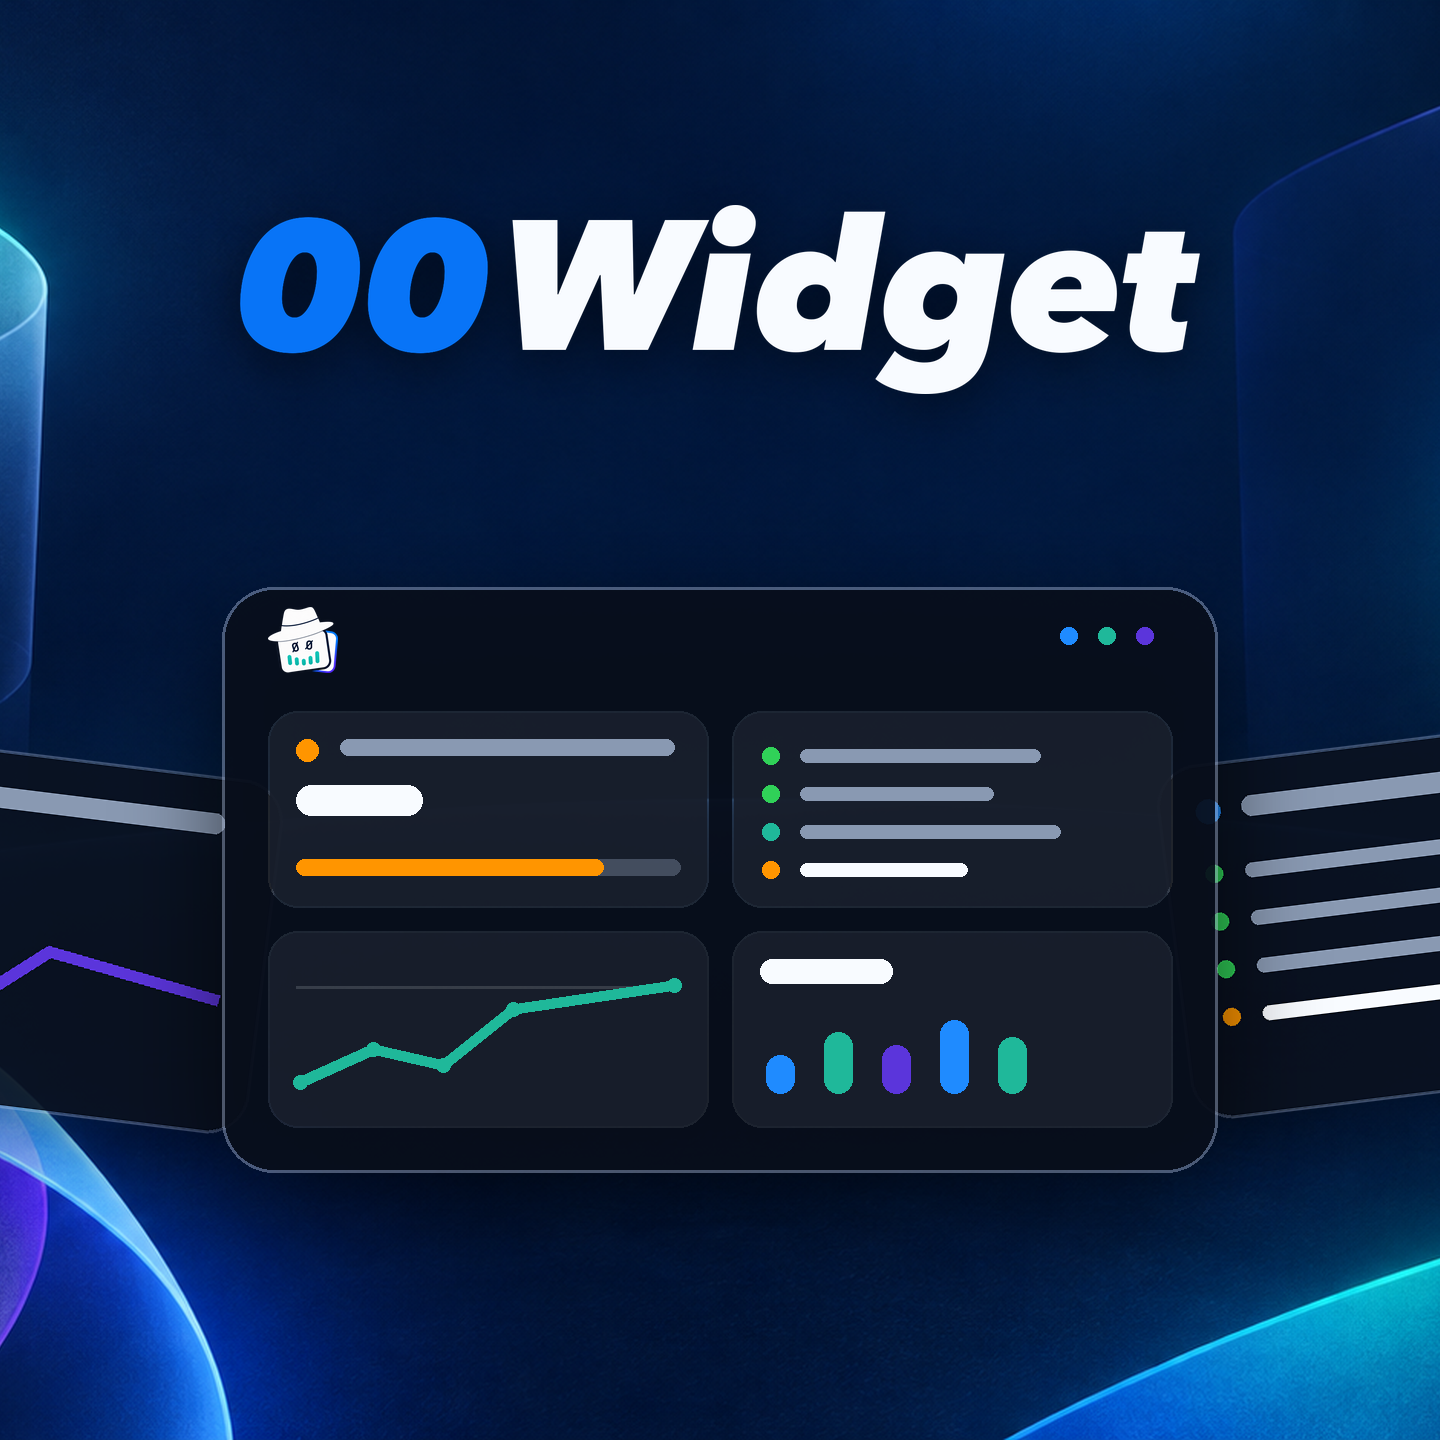
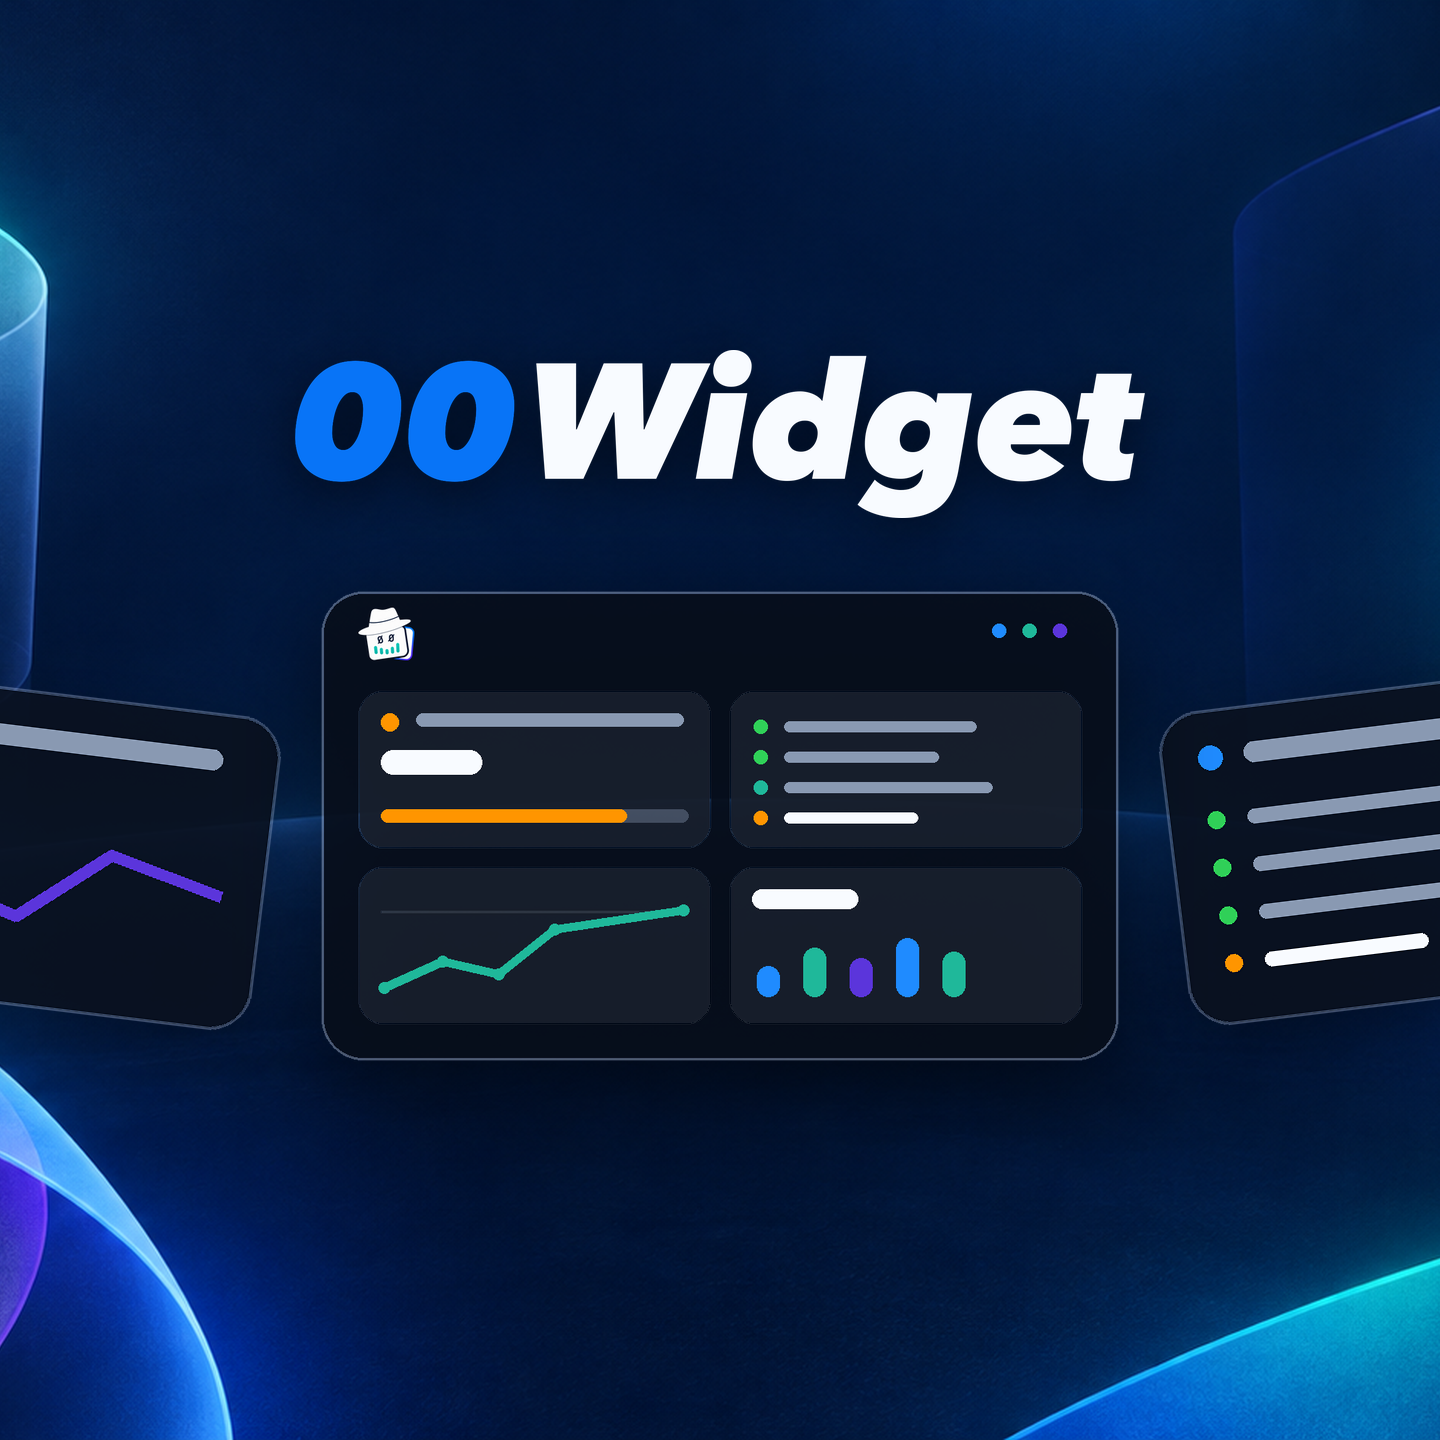
Add safe Horizon Store cover variants

Changed region(s): [[0.0, 0.4062, 1.0, 0.8438], [0.1562, 0.125, 0.8438, 0.375], [0.2188, 0.7188, 0.3438, 0.75]]

diff --git a/marketing/horizon-store/build.py b/marketing/horizon-store/build.py
@@ -27,6 +27,10 @@ MARK = REPO_ROOT / "docs" / "brand" / "mark-transparent-master.png"
 WORDMARK = REPO_ROOT / "docs" / "brand" / "wordmark-horizontal-transparent.png"
 
 UNIVERSAL_NAME = "00widget-universal-basic-2560x1440.png"
+COVER_LANDSCAPE_NAME = "00widget-cover-landscape-2560x1440.png"
+COVER_SQUARE_NAME = "00widget-cover-square-1440x1440.png"
+COVER_PORTRAIT_NAME = "00widget-cover-portrait-1008x1440.png"
+MINI_LANDSCAPE_NAME = "00widget-mini-landscape-1080x360.png"
 HERO_NAME = "00widget-hero-cover-3000x900.png"
 ICON_NAME = "00widget-icon-512x512.png"
 LOGO_NAME = "00widget-logo-transparent-1254x1254.png"
@@ -37,6 +41,10 @@ SPATIAL_FOREGROUND_NAME = "00widget-spatialized-foreground-180x180.png"
 # Dashboard for the 3000x900 Hero Cover. The title is the essential element
 # this build pins to it; decorative panels may continue into the bleed.
 HERO_SAFE_AREA = (560, 120, 2440, 720)
+COVER_LANDSCAPE_SAFE_AREA = (300, 330, 2260, 1110)
+COVER_SQUARE_SAFE_AREA = (190, 190, 1250, 1150)
+COVER_PORTRAIT_SAFE_AREA = (170, 160, 838, 1090)
+MINI_LANDSCAPE_SAFE_AREA = (100, 50, 980, 310)
 SPATIAL_FOREGROUND_SAFE_AREA = (21, 21, 159, 159)
 
 DEEP_NAVY = (6, 21, 42, 255)
@@ -253,20 +261,128 @@ def place_rotated(
     composite_with_shadow(canvas, rotated, xy, blur=34, opacity=opacity)
 
 
-def build_universal() -> Image.Image:
+def scaled_dashboard(size: tuple[int, int]) -> Image.Image:
+    return glass_panel((1000, 590)).resize(size, Image.Resampling.LANCZOS)
+
+
+def build_cover_landscape() -> Image.Image:
     canvas = cover_background((2560, 1440))
 
-    left = mini_panel((520, 360), PURPLE, chart=True)
-    right = mini_panel((520, 360), BLUE, chart=False)
-    place_rotated(canvas, left, (570, 930), -7.0, opacity=110)
-    place_rotated(canvas, right, (1990, 915), 7.0, opacity=110)
+    left = mini_panel((460, 320), PURPLE, chart=True)
+    right = mini_panel((460, 320), BLUE, chart=False)
+    place_rotated(canvas, left, (600, 850), -7.0, opacity=105)
+    place_rotated(canvas, right, (1960, 845), 7.0, opacity=105)
 
-    dashboard = glass_panel((1000, 590))
-    composite_with_shadow(canvas, dashboard, (780, 585), blur=48, opacity=175, offset=(0, 30))
+    dashboard = scaled_dashboard((800, 472))
+    dashboard_xy = (880, 590)
+    inside(
+        (
+            dashboard_xy[0],
+            dashboard_xy[1],
+            dashboard_xy[0] + dashboard.width,
+            dashboard_xy[1] + dashboard.height,
+        ),
+        COVER_LANDSCAPE_SAFE_AREA,
+    )
+    composite_with_shadow(canvas, dashboard, dashboard_xy, blur=46, opacity=175, offset=(0, 28))
 
-    title = title_art((960, 220))
-    title_xy = ((2560 - title.width) // 2, 205)
+    title = title_art((850, 195))
+    title_xy = ((2560 - title.width) // 2, 350)
+    inside(
+        (title_xy[0], title_xy[1], title_xy[0] + title.width, title_xy[1] + title.height),
+        COVER_LANDSCAPE_SAFE_AREA,
+    )
     composite_with_shadow(canvas, title, title_xy, blur=24, opacity=125, offset=(0, 12))
+    return canvas.convert("RGB")
+
+
+def build_cover_square() -> Image.Image:
+    canvas = cover_background((1440, 1440))
+
+    left = mini_panel((370, 255), PURPLE, chart=True)
+    right = mini_panel((370, 255), BLUE, chart=False)
+    place_rotated(canvas, left, (245, 795), -7.0, opacity=95)
+    place_rotated(canvas, right, (1195, 785), 7.0, opacity=95)
+
+    dashboard = scaled_dashboard((760, 448))
+    dashboard_xy = (340, 520)
+    inside(
+        (
+            dashboard_xy[0],
+            dashboard_xy[1],
+            dashboard_xy[0] + dashboard.width,
+            dashboard_xy[1] + dashboard.height,
+        ),
+        COVER_SQUARE_SAFE_AREA,
+    )
+    composite_with_shadow(canvas, dashboard, dashboard_xy, blur=42, opacity=175, offset=(0, 26))
+
+    title = title_art((760, 175))
+    title_xy = ((1440 - title.width) // 2, 245)
+    inside(
+        (title_xy[0], title_xy[1], title_xy[0] + title.width, title_xy[1] + title.height),
+        COVER_SQUARE_SAFE_AREA,
+    )
+    composite_with_shadow(canvas, title, title_xy, blur=22, opacity=125, offset=(0, 11))
+    return canvas.convert("RGB")
+
+
+def build_cover_portrait() -> Image.Image:
+    canvas = cover_background((1008, 1440))
+
+    # Bleed-only side panels preserve the multi-panel idea without competing
+    # with the title and central dashboard inside Meta's narrow safe area.
+    left = mini_panel((300, 210), PURPLE, chart=True)
+    right = mini_panel((300, 210), BLUE, chart=False)
+    place_rotated(canvas, left, (75, 750), -7.0, opacity=80)
+    place_rotated(canvas, right, (933, 745), 7.0, opacity=80)
+
+    dashboard = scaled_dashboard((620, 366))
+    dashboard_xy = (194, 520)
+    inside(
+        (
+            dashboard_xy[0],
+            dashboard_xy[1],
+            dashboard_xy[0] + dashboard.width,
+            dashboard_xy[1] + dashboard.height,
+        ),
+        COVER_PORTRAIT_SAFE_AREA,
+    )
+    composite_with_shadow(canvas, dashboard, dashboard_xy, blur=38, opacity=175, offset=(0, 24))
+
+    title = title_art((620, 145))
+    title_xy = ((1008 - title.width) // 2, 225)
+    inside(
+        (title_xy[0], title_xy[1], title_xy[0] + title.width, title_xy[1] + title.height),
+        COVER_PORTRAIT_SAFE_AREA,
+    )
+    composite_with_shadow(canvas, title, title_xy, blur=20, opacity=125, offset=(0, 10))
+    return canvas.convert("RGB")
+
+
+def build_mini_landscape() -> Image.Image:
+    canvas = cover_background((1080, 360))
+
+    dashboard = scaled_dashboard((420, 248))
+    dashboard_xy = (550, 56)
+    inside(
+        (
+            dashboard_xy[0],
+            dashboard_xy[1],
+            dashboard_xy[0] + dashboard.width,
+            dashboard_xy[1] + dashboard.height,
+        ),
+        MINI_LANDSCAPE_SAFE_AREA,
+    )
+    composite_with_shadow(canvas, dashboard, dashboard_xy, blur=24, opacity=160, offset=(0, 15))
+
+    title = title_art((350, 82))
+    title_xy = (120, (360 - title.height) // 2)
+    inside(
+        (title_xy[0], title_xy[1], title_xy[0] + title.width, title_xy[1] + title.height),
+        MINI_LANDSCAPE_SAFE_AREA,
+    )
+    composite_with_shadow(canvas, title, title_xy, blur=14, opacity=115, offset=(0, 7))
     return canvas.convert("RGB")
 
 
@@ -364,6 +480,13 @@ def build_previews(outputs: dict[str, Image.Image]) -> None:
         safe_area_preview(outputs[HERO_NAME], HERO_SAFE_AREA),
         PREVIEW_DIR / "hero-safe-area-preview.png",
     )
+    for name, safe_area, preview_name in (
+        (COVER_LANDSCAPE_NAME, COVER_LANDSCAPE_SAFE_AREA, "cover-landscape-safe-area-preview.png"),
+        (COVER_SQUARE_NAME, COVER_SQUARE_SAFE_AREA, "cover-square-safe-area-preview.png"),
+        (COVER_PORTRAIT_NAME, COVER_PORTRAIT_SAFE_AREA, "cover-portrait-safe-area-preview.png"),
+        (MINI_LANDSCAPE_NAME, MINI_LANDSCAPE_SAFE_AREA, "mini-landscape-safe-area-preview.png"),
+    ):
+        save(safe_area_preview(outputs[name], safe_area), PREVIEW_DIR / preview_name)
 
     spatial = outputs[SPATIAL_BACKGROUND_NAME].convert("RGBA")
     spatial.alpha_composite(outputs[SPATIAL_FOREGROUND_NAME])
@@ -373,6 +496,10 @@ def build_previews(outputs: dict[str, Image.Image]) -> None:
 def validate(outputs: dict[str, Image.Image]) -> None:
     expected = {
         UNIVERSAL_NAME: ((2560, 1440), "RGB"),
+        COVER_LANDSCAPE_NAME: ((2560, 1440), "RGB"),
+        COVER_SQUARE_NAME: ((1440, 1440), "RGB"),
+        COVER_PORTRAIT_NAME: ((1008, 1440), "RGB"),
+        MINI_LANDSCAPE_NAME: ((1080, 360), "RGB"),
         HERO_NAME: ((3000, 900), "RGB"),
         ICON_NAME: ((512, 512), "RGB"),
         LOGO_NAME: ((1254, 1254), "RGBA"),
@@ -401,7 +528,11 @@ def main() -> None:
         raise SystemExit("Missing Horizon Store source(s):\n" + "\n".join(map(str, missing)))
 
     outputs = {
-        UNIVERSAL_NAME: build_universal(),
+        UNIVERSAL_NAME: build_cover_landscape(),
+        COVER_LANDSCAPE_NAME: build_cover_landscape(),
+        COVER_SQUARE_NAME: build_cover_square(),
+        COVER_PORTRAIT_NAME: build_cover_portrait(),
+        MINI_LANDSCAPE_NAME: build_mini_landscape(),
         HERO_NAME: build_hero(),
         ICON_NAME: build_icon(),
         LOGO_NAME: build_logo(),

diff --git a/marketing/horizon-store/README.md b/marketing/horizon-store/README.md
@@ -10,18 +10,23 @@ plate under `sources/`.
 | Developer Dashboard field | File |
 | --- | --- |
 | Universal basic asset | `assets/00widget-universal-basic-2560x1440.png` |
+| Cover art — Landscape | `assets/00widget-cover-landscape-2560x1440.png` |
+| Cover art — Square | `assets/00widget-cover-square-1440x1440.png` |
+| Cover art — Portrait | `assets/00widget-cover-portrait-1008x1440.png` |
+| Mini landscape | `assets/00widget-mini-landscape-1080x360.png` |
 | Icon | `assets/00widget-icon-512x512.png` |
 | Logo | `assets/00widget-logo-transparent-1254x1254.png` |
 | Hero cover | `assets/00widget-hero-cover-3000x900.png` |
 | Spatialized tile — Background | `assets/00widget-spatialized-background-180x180.png` |
 | Spatialized tile — Foreground | `assets/00widget-spatialized-foreground-180x180.png` |
 
-The Universal Basic Asset is the 16:9 source Meta uses to generate the cover
-landscape, square, portrait, and mini-landscape variants. Inspect every
-generated crop in the Developer Dashboard before submitting. The centered
-square and portrait images under `previews/` are deliberately conservative QA
-crops, not additional upload assets. `previews/hero-safe-area-preview.png`
-shows the conservative Hero safe-area guard enforced by the build.
+The Universal Basic Asset is the 16:9 source Meta can use to generate the cover
+variants. Meta's September 2026 generator moved the title outside its own safe
+area in landscape and portrait, so the format-specific files above are the
+submission source of truth: replace the generated `uba_…` variants with them.
+Every important element in those files is guarded against a conservative safe
+area in `build.py`. The matching previews under `previews/` dim the bleed and
+draw the enforced rectangle.
 
 ## Design contract
 
@@ -30,6 +35,10 @@ shows the conservative Hero safe-area guard enforced by the build.
   quote, or platform reference.
 - Universal and Hero covers use the same atmosphere, title artwork, dashboard
   language, and palette.
+- Landscape, square, portrait, and mini-landscape covers are composed for
+  their own aspect ratios. They are not mechanical crops of the Universal
+  asset, because a single composition cannot keep the title and dashboard
+  inside all four safe areas.
 - The store icon is an opaque, square-cornered 24-bit PNG derived mechanically
   from `docs/brand/app-icon-master.png`.
 - The logo preserves the approved U2 mark and its real transparent alpha.
